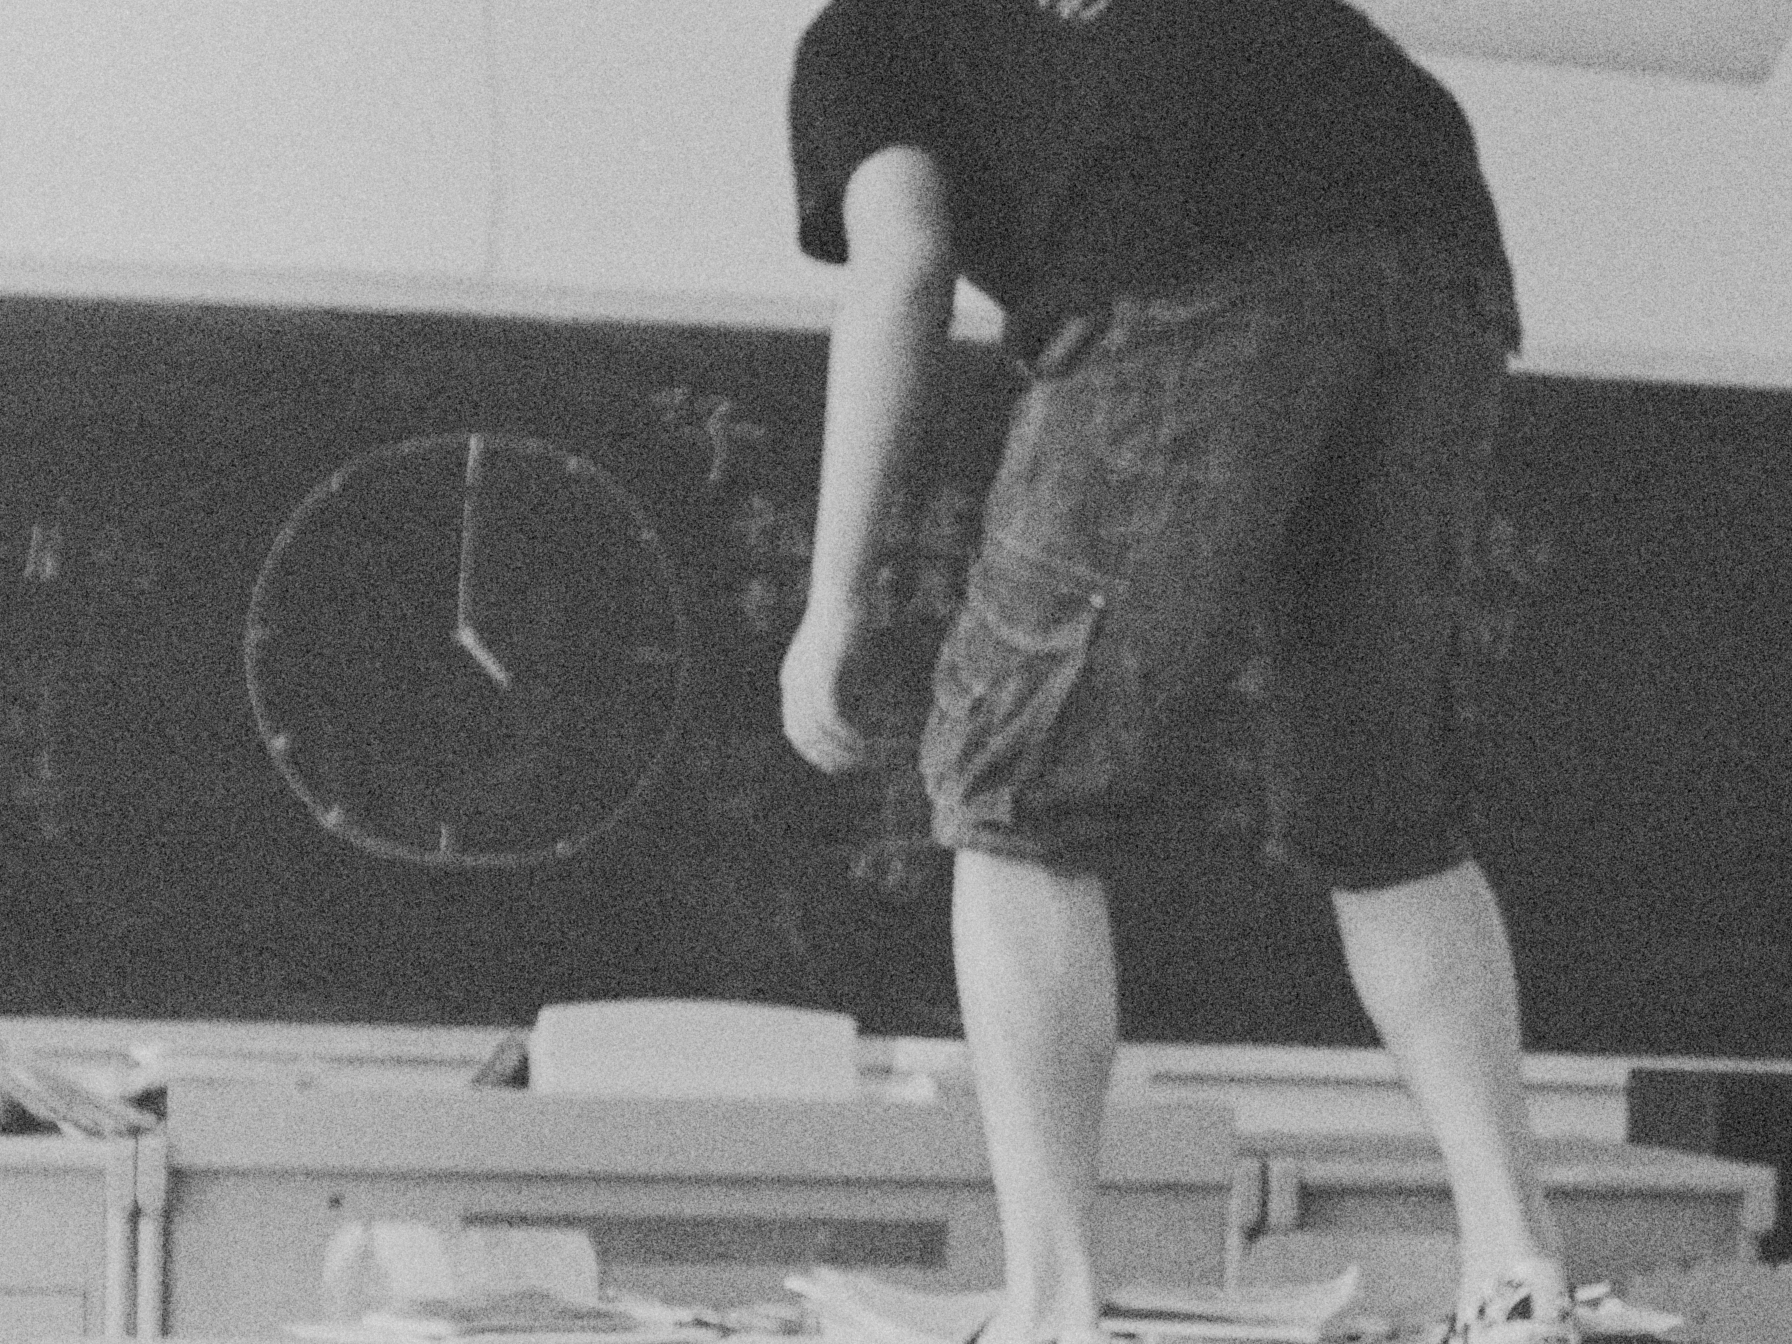
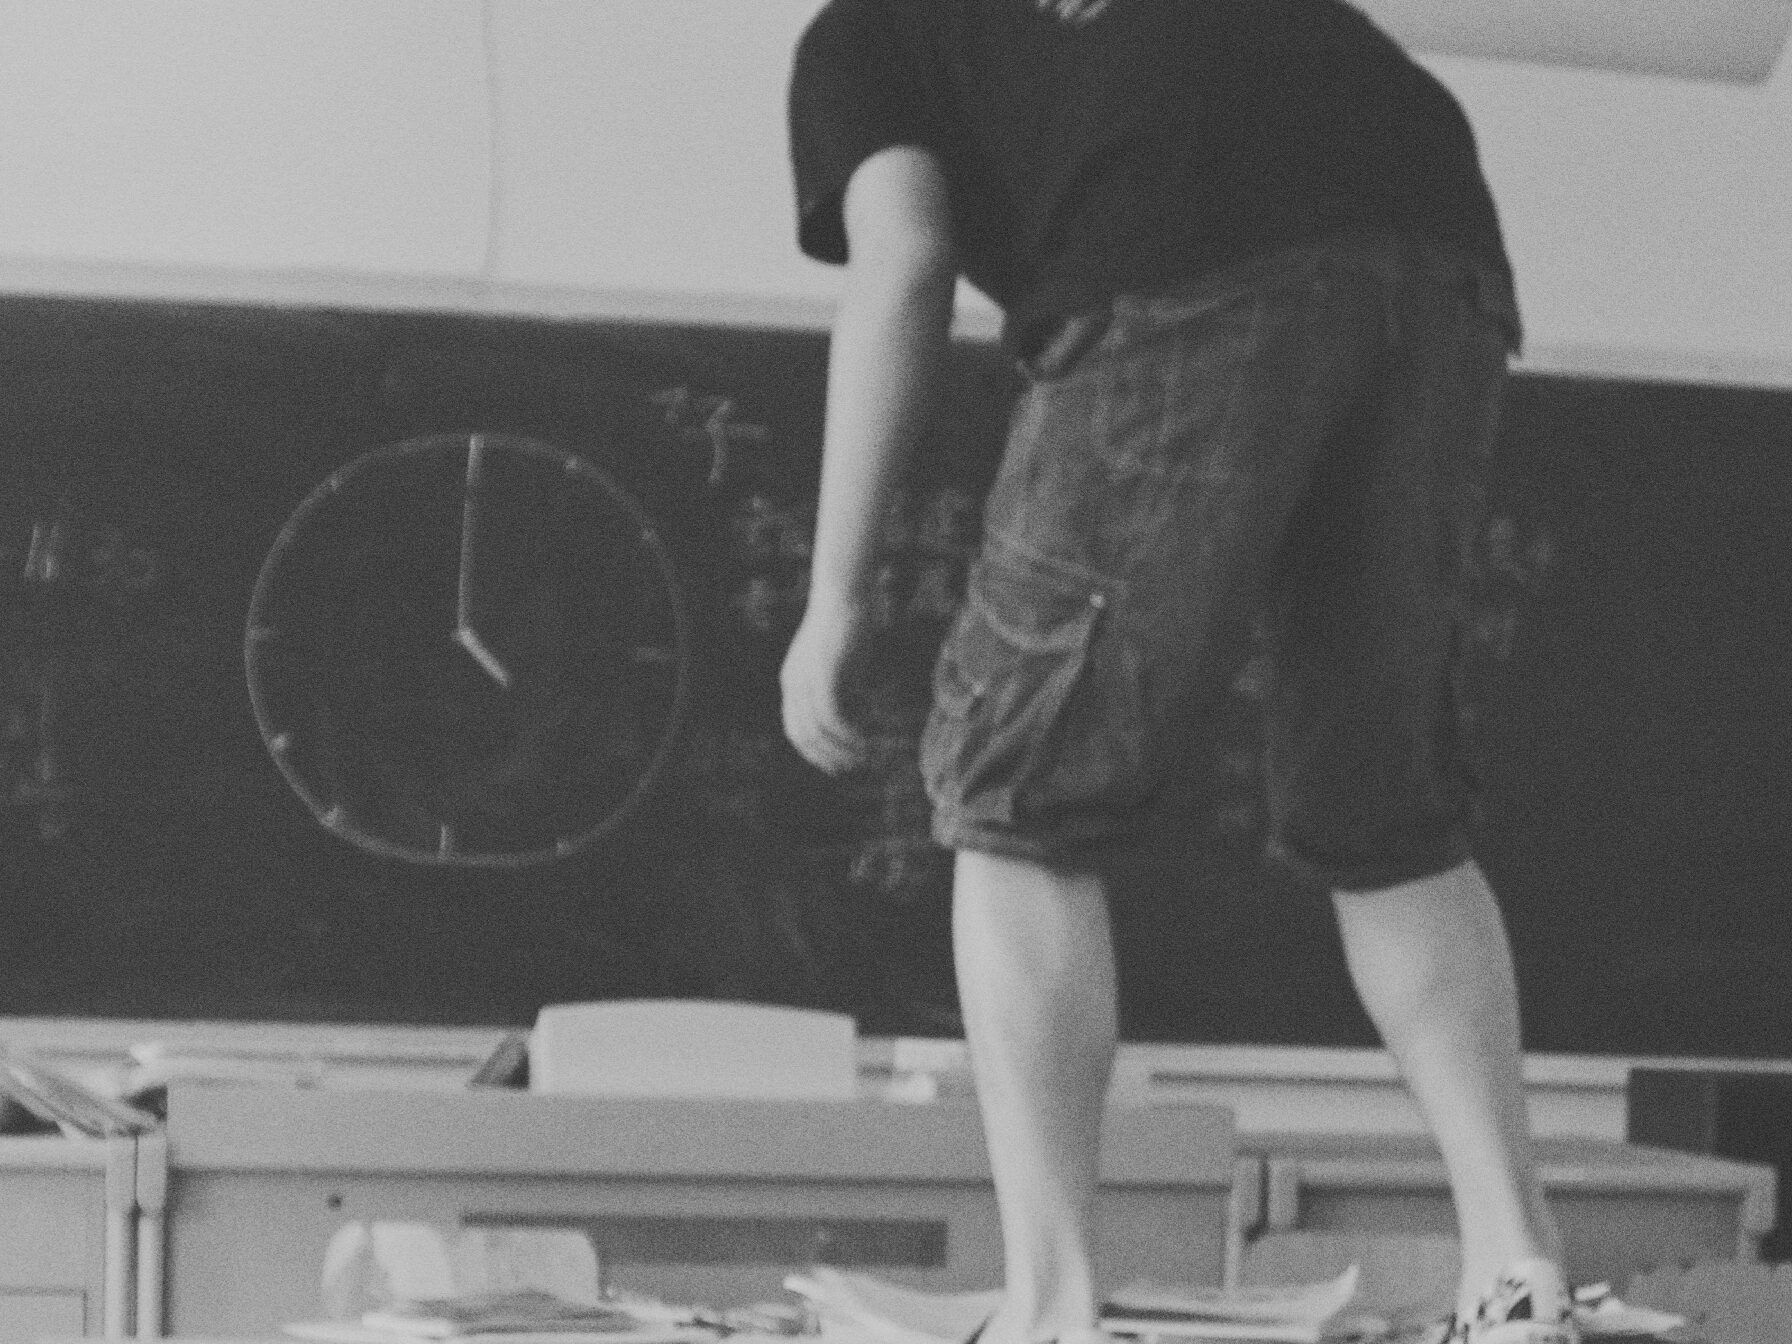
新增 Reviews 分区、ASMA 页面，首页多处调整
- 新增内容分区系统（section: essay|review），Essays 与 Reviews
  各自筛选显示；《A Wider Horizon》移入 Reviews
- 新增 /reviews：日期-标题-简介-作者的编辑卡片式列表，简介超长不截断、
  居中溢出；返回按钮与标题左右对齐
- 新增 /asma：反社交媒体协会十条章程，复古纯 HTML 风格 + 访客计数器
- 首页：更新背景图、"Apps"/"THE ANTI SOCIAL MEDIA ASSOCIATION" 改名、
  点亮 Reviews 入口

diff --git a/vigorous-venus/src/content.config.ts b/vigorous-venus/src/content.config.ts
@@ -11,6 +11,8 @@ const blog = defineCollection({
 			description: z.string(),
 			// Who wrote it. Optional — falls back to DEFAULT_AUTHOR when omitted.
 			author: z.string().optional(),
+			// Which listing this post belongs to. Defaults to 'essay' (shows in Essays).
+			section: z.enum(['essay', 'review']).default('essay'),
 			// Transform string to Date object
 			pubDate: z.coerce.date(),
 			updatedDate: z.coerce.date().optional(),

diff --git a/vigorous-venus/src/content/blog/A Wider Horizon.md b/vigorous-venus/src/content/blog/A Wider Horizon.md
@@ -2,6 +2,7 @@
 title: 'A Wider Horizon'
 description: 'On finishing Forza Horizon 6, the strange grace of Auto Drive, and why the journey is the scenery.'
 pubDate: 'Jun 05 2026'
+section: 'review'
 ---
 
 I finally made it to the island.
